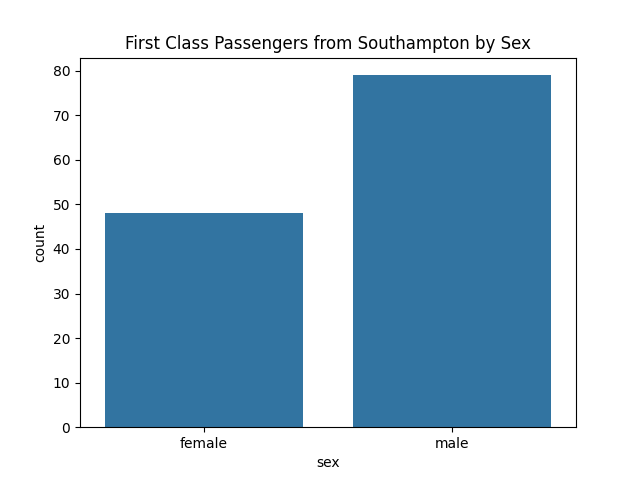
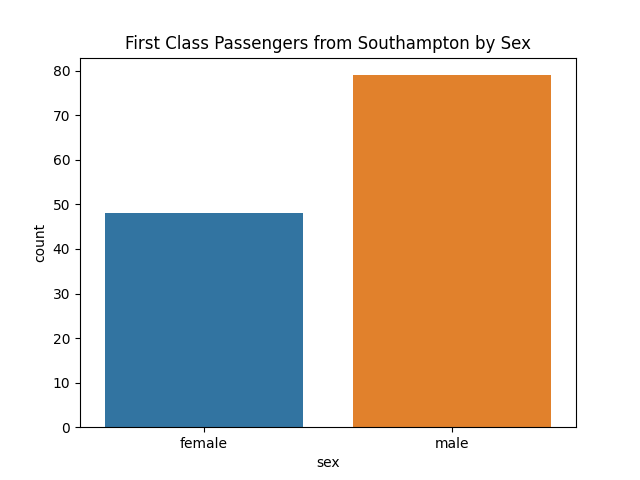
Nov 19, 2024, 8:32 PM

Changed region(s): [[0.5312, 0.1562, 0.875, 0.9062]]

diff --git a/cse1300L_fall24/assignment_6_2/assignment_6_2.py b/cse1300L_fall24/assignment_6_2/assignment_6_2.py
@@ -22,20 +22,20 @@ titanic = pd.read_csv('titanic.csv')
 # Subset the titanic dataset to include first class passengers who embarked in Southampton
 firstSouth = titanic[(titanic['pclass'] == 1) & (titanic['embarked'] == 'S')]
 
-# Subset the titanic dataset to include either second or third class passenger
+# Subset the titanic dataset to include either second or third class passengers
 secondThird = titanic[(titanic['pclass'] == 2) | (titanic['pclass'] == 3)]
 
 print(firstSouth.head())
 print(secondThird.head())
 
 # Create a bar chart for the first class passengers who embarked in Southampton grouped by sex
-sns.countplot(data=firstSouth, x='sex')
+sns.countplot(data=firstSouth, x='sex', palette=['#1f77b4', '#ff7f0e'])  # Blue for female, orange for male
 plt.title('First Class Passengers from Southampton by Sex')
 plt.savefig('titanic_bar_1.png')
 plt.clf()  # Clear the current figure
 
 # Create a bar chart for the second and third class passengers grouped by survival status
-sns.countplot(data=secondThird, x='pclass', hue='survived')
+sns.countplot(data=secondThird, x='pclass', hue='survived', palette=['#ff7f0e', '#1f77b4'])  # Orange for not survived, blue for survived
 plt.title('Second and Third Class Passengers by Survival Status')
 plt.legend(labels=["Not Survived", "Survived"], title="Survived")
 plt.savefig('titanic_bar_2.png')
